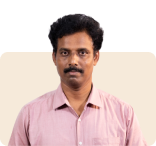
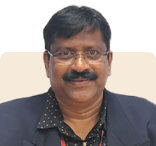
new poster, hod img

diff --git a/FRONTEND/src/components/Events/Event.jsx b/FRONTEND/src/components/Events/Event.jsx
@@ -38,7 +38,7 @@ export default function Event() {
 
         {event.pics && (
           <div className="my-6">
-            <h3 className="font-semibold text-2xl">Pics of the event</h3>
+            {/* <h3 className="font-semibold text-2xl">Pics of the event</h3> */}
             <div className="gallery rounded-md m-4">
               <div className="event-slider rounded-md shadow-2xl w-full h-[30vh] sm:w-3/5 sm:h-96 mx-auto">
                 <div className="slides border h-full  border-gray-600/20 rounded-md flex overflow-x-auto">

diff --git a/FRONTEND/src/data/TeamData.js b/FRONTEND/src/data/TeamData.js
@@ -1,9 +1,9 @@
 export const faculty = [
   {
-    name: "Dr. M. Raja Sekar",
+    name: "Dr.T.Sunil Kumar",
     role: "Head Of Department",
     image: "hod.png",
-    linkedin: "https://www.linkedin.com/in/mummalaneni-rajasekar-9a1964178/",
+    linkedin: "https://www.linkedin.com/in/sunil-kumar-517a8715/",
   },
   {
     name: "Dr. N. Sunanda",

diff --git a/FRONTEND/src/data/events-info.js b/FRONTEND/src/data/events-info.js
@@ -8,7 +8,7 @@ const events = {
       venue: "To be announced",
       page: {
         name: "Profolio",
-        date: "Since August 9th 2024",
+        date: "August 27th 2024",
         venue: "To be announced",
         timings: "10:00 AM to 4:40 PM",
         pics: [

diff --git a/FRONTEND/src/data/testimonial.js b/FRONTEND/src/data/testimonial.js
@@ -1,6 +1,6 @@
 const testimonials = [
   {
-    name: "Dr. M. Raja Sekar",
+    name: "Dr.T.Sunil Kumar",
     role: "Head Of Department",
     image: "teamImages/hod.png",
     statement:
